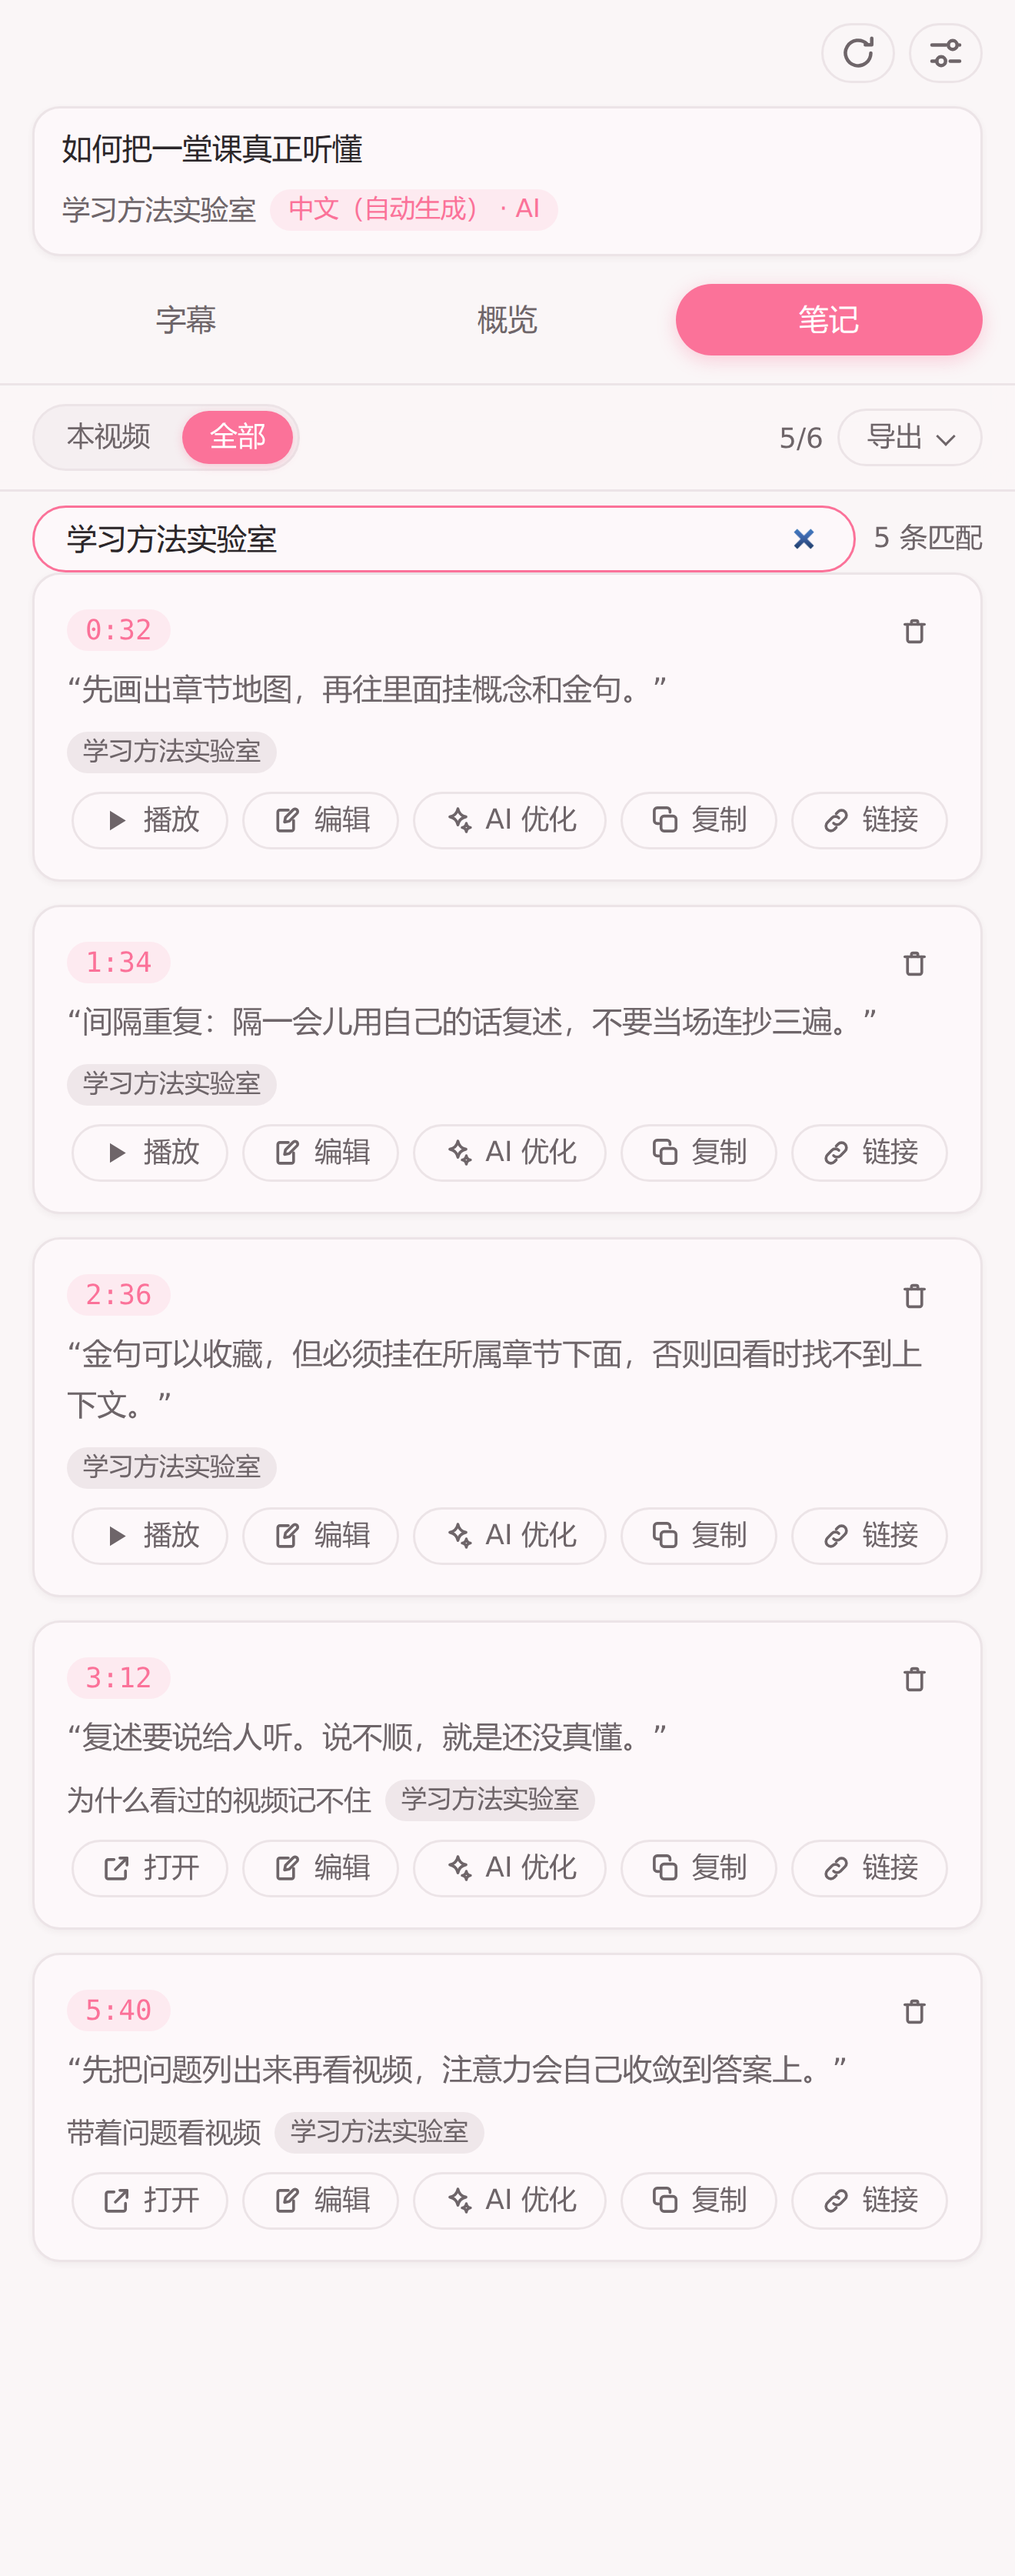
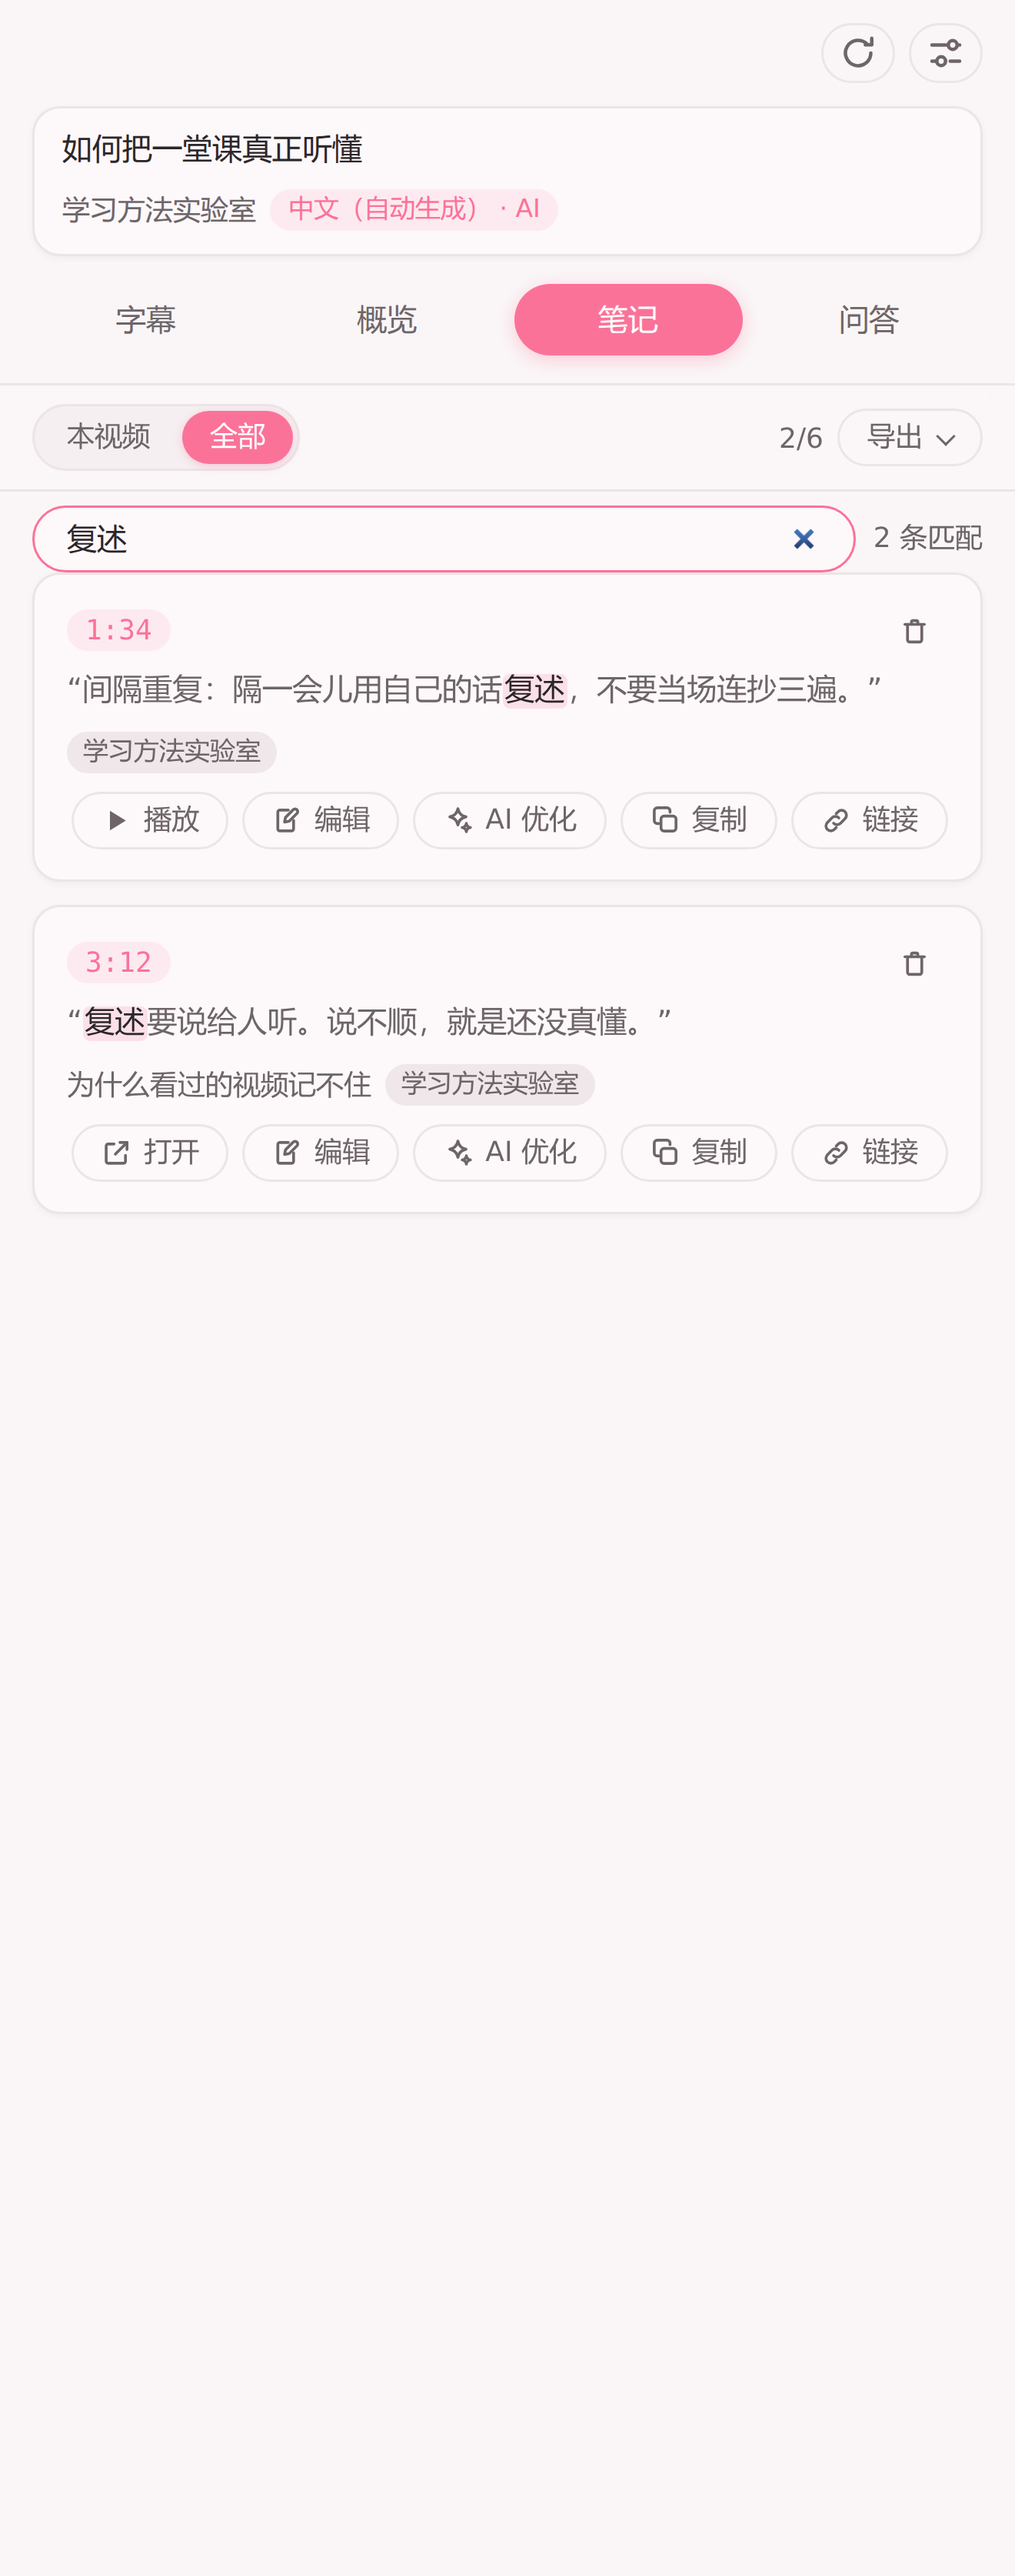
问答回答支持区间时间戳 [M:SS-M:SS]
真实模型会自然写出区间引用（表示该段话的依据范围），此前解析
只认单点导致全部变成死文本。切片逻辑下沉到 lib/qa-citations
（splitAnswerByTimestamps），区间显示原样、点击跳到起点；
提示词引导优先单点格式。渲染与解析共用同一套正则。

diff --git a/scripts/capture-sidepanel.js b/scripts/capture-sidepanel.js
@@ -213,6 +213,27 @@ const OTHER_NOTES = [
   },
 ];
 
+// 「问答」标签页的桩：askQuestion 直接返回成品卡片，不走真模型。
+const QA_ENTRY = {
+  id: "qa_shot",
+  bvid: BVID,
+  page: 1,
+  question: "这堂课的核心学习方法是什么？",
+  answer:
+    "核心是「先搭章节地图，再往里挂概念」[0:32]，配合间隔重复来对抗遗忘 [1:34]；检验标准是能把内容说给别人听 [3:12]。",
+  citations: [
+    { startSeconds: 32, quote: "先画出章节地图，再往里面挂概念和金句。" },
+    {
+      startSeconds: 94,
+      quote: "间隔重复：隔一会儿用自己的话复述，不要当场连抄三遍。",
+    },
+    { startSeconds: 192, quote: "复述要说给人听。说不顺，就是还没真懂。" },
+  ],
+  clickable: [32, 94, 192],
+  createdAt: Date.now(),
+};
+
+
 const FIXTURE = {
   bvid: BVID,
   url: `https://www.bilibili.com/video/${BVID}`,
@@ -232,11 +253,13 @@ const FIXTURE = {
     analysis: ANALYSIS,
   },
   notes: [...NOTES, ...OTHER_NOTES],
+  qaEntry: QA_ENTRY,
 };
 
 const SHOTS = [
   "transcript.png",
   "overview.png",
+  "qa.png",
   "explain.png",
   "notes.png",
   "notes-refine.png",
@@ -413,6 +436,11 @@ async function main() {
             return { success: true, notes };
           }
           if (message?.action === "checkVideoAvailable") return { available: true };
+          if (message?.action === "getQaHistory") return { success: true, entries: [] };
+          if (message?.action === "startAiTask") return { success: true };
+          if (message?.action === "askQuestion") {
+            return { success: true, entry: fixture.qaEntry };
+          }
           if (message?.action === "explainSelection") {
             return {
               success: true,
@@ -484,6 +512,16 @@ async function main() {
   await fitPanel(page);
   await shot(page, "overview.png");
 
+  // 问答：提问后的成品卡——时间戳可点、引用原句可见。
+  await page.click('.tab[data-tab="qa"]');
+  await page.waitForSelector("#qaPanel:not([hidden])");
+  await page.fill("#qaInput", "这堂课的核心学习方法是什么？");
+  await page.click("#qaAskBtn");
+  await page.waitForSelector("#qaList .qa-card");
+  await freezePlayback(page);
+  await fitPanel(page);
+  await shot(page, "qa.png");
+
   await page.click('.tab[data-tab="transcript"]');
   await page.waitForSelector("#transcriptList .segment");
   await freezePlayback(page);
@@ -514,7 +552,9 @@ async function main() {
   await page.waitForFunction(
     () => document.querySelectorAll("#notesList .note").length === 6,
   );
-  await page.fill("#notesSearchInput", "学习方法实验室");
+  // 搜「复述」而不是 UP 主：两条笔记正文出现粉色命中高亮，
+  // 正好展示本版的搜索高亮能力。
+  await page.fill("#notesSearchInput", "复述");
   await page.waitForFunction(
     () => document.getElementById("notesSearchCount").textContent.includes("条匹配"),
   );

diff --git a/lib/qa-citations.js b/lib/qa-citations.js
@@ -19,15 +19,42 @@ var BILI_QA_CITATIONS = (() => {
     return `${Math.floor(value / 60)}:${String(value % 60).padStart(2, "0")}`;
   }
 
-  /** 找出回答文本里的全部 [M:SS]，返回 [{raw, seconds}]，非法 token 跳过。 */
+  // 回答正文里的时间戳 token：单点 [M:SS] 或区间 [M:SS-M:SS]。
+  // 真实模型两种都会写（区间表示「这一段话的依据」），解析以起点为准。
+  const TIMESTAMP_TOKEN = /\[(\d{1,3}:[0-5]\d)(?:-(\d{1,3}:[0-5]\d))?\]/g;
+
+  /** 找出回答文本里的全部时间戳（区间取起点），非法 token 跳过。 */
   function extractTimestamps(text) {
     const source = String(text || "");
     const found = [];
-    for (const match of source.matchAll(/\[(\d{1,3}:[0-5]\d)\]/g)) {
+    for (const match of source.matchAll(TIMESTAMP_TOKEN)) {
       const seconds = timestampToSeconds(match[1]);
-      if (seconds !== null) found.push({ raw: match[1], seconds });
+      if (seconds !== null) {
+        found.push({ raw: match[0], seconds });
+      }
     }
     return found;
+  }
+
+  /**
+   * 把回答切成 普通文本 / 时间戳 片段数组，供渲染层拼装
+   * （时间戳片段带 seconds 与原文 label，普通片段只有 text）。
+   * 渲染层据此决定时间戳是可点按钮还是纯文本，逻辑单点维护。
+   */
+  function splitAnswerByTimestamps(answer) {
+    const source = String(answer || "");
+    const segments = [];
+    let cursor = 0;
+    for (const match of source.matchAll(TIMESTAMP_TOKEN)) {
+      const seconds = timestampToSeconds(match[1]);
+      const at = match.index;
+      if (seconds === null) continue;
+      if (at > cursor) segments.push({ text: source.slice(cursor, at) });
+      segments.push({ text: match[0], seconds });
+      cursor = at + match[0].length;
+    }
+    if (cursor < source.length) segments.push({ text: source.slice(cursor) });
+    return segments;
   }
 
   // 引用比对在「去空白」之后做：模型摘录时常在标点前后加空格，
@@ -90,6 +117,7 @@ var BILI_QA_CITATIONS = (() => {
     timestampToSeconds,
     secondsToTimestamp,
     extractTimestamps,
+    splitAnswerByTimestamps,
     validateCitations,
     clickableTimestamps,
   };

diff --git a/tests/sidepanel.test.js b/tests/sidepanel.test.js
@@ -210,7 +210,7 @@ function createContext({
   // 所以在末尾追加一行，从同一个词法作用域里把要测的绑定递出来。
   const source = fs.readFileSync(path.join(ROOT, "sidepanel.js"), "utf8");
   vm.runInContext(
-    `${source}\n;globalThis.__api = { state, loadTranscript, analyze, cancelAnalysis, cancelRewrite, segmentDisplayText, paintSegmentText, setTranscriptMode, selectionContext, onSelectionChange, applySearchFilter, updateFollowPill, jumpToActive, closeSearch, renderNoteCard, playNote, loadNotes, syncQuoteButtonsWithNotes, exportNotes, exportLearning, renderNotes, applyNotesSearch, renderAnalysis, sendToBackground, submitQuestion, switchTab };`,
+    `${source}\n;globalThis.__api = { state, loadTranscript, analyze, cancelAnalysis, cancelRewrite, segmentDisplayText, paintSegmentText, setTranscriptMode, selectionContext, onSelectionChange, applySearchFilter, updateFollowPill, jumpToActive, closeSearch, renderNoteCard, playNote, loadNotes, syncQuoteButtonsWithNotes, exportNotes, exportLearning, renderNotes, applyNotesSearch, renderAnalysis, sendToBackground, submitQuestion, switchTab, appendAnswerText };`,
     context,
   );
 
@@ -1712,3 +1712,18 @@ test("问答卡片只有复制操作，且有成功反馈", async () => {
   assert.match(ctx.el("toast").textContent, /已复制/);
 });
 
+
+test("回答正文支持区间时间戳：显示区间、跳到起点", () => {
+  const ctx = createContext({ transcript: transcriptResult() });
+  const node = createElement("div");
+  ctx.appendAnswerText(node, "依据见 [0:11-0:23] 与 [9:99] 越界", new Set([11]));
+
+  const buttons = node.children.filter((child) => child.tagName === "button");
+  assert.equal(buttons.length, 1, "越界的时间戳不渲染成按钮");
+  assert.equal(buttons[0].textContent, "[0:11-0:23]");
+  // 桩的 textContent 不聚合子节点，从 children 重建全文核对。
+  const rendered = node.children
+    .map((child) => (typeof child === "string" ? child : child.textContent))
+    .join("");
+  assert.equal(rendered, "依据见 [0:11-0:23] 与 [9:99] 越界");
+});

diff --git a/sidepanel.js b/sidepanel.js
@@ -1540,25 +1540,23 @@ function hideQaHint() {
   el("qaHint").hidden = true;
 }
 
-/** 回答正文里的 [M:SS] 渲染成可点击的时间戳按钮；越界的保留纯文本。 */
+/**
+ * 回答正文里的时间戳渲染成可点击按钮：单点与区间都支持
+ * （区间显示原样文本、跳到起点）；不在合法区间的保留纯文本。
+ * 切片逻辑在 lib/qa-citations.js，这里只负责拼节点。
+ */
 function appendAnswerText(node, answer, clickableSeconds) {
-  const source = String(answer || "");
-  node.textContent = "";
-  let cursor = 0;
-  const pattern = /\[(\d{1,3}:[0-5]\d)\]/g;
   const clickable = new Set(clickableSeconds || []);
-  for (const match of source.matchAll(pattern)) {
-    const seconds = BILI_QA_CITATIONS.timestampToSeconds(match[1]);
-    const at = match.index;
-    if (at > cursor) node.append(source.slice(cursor, at));
-    if (seconds !== null && clickable.has(seconds)) {
-      node.append(makeTimestampButton(match[1], seconds));
+  node.textContent = "";
+  for (const segment of BILI_QA_CITATIONS.splitAnswerByTimestamps(answer)) {
+    if (segment.seconds == null) {
+      node.append(segment.text);
+    } else if (clickable.has(segment.seconds)) {
+      node.append(makeTimestampButton(segment.text, segment.seconds));
     } else {
-      node.append(match[0]);
+      node.append(segment.text);
     }
-    cursor = at + match[0].length;
   }
-  if (cursor < source.length) node.append(source.slice(cursor));
 }
 
 function makeTimestampButton(label, seconds) {

diff --git a/tests/qa-citations.test.js b/tests/qa-citations.test.js
@@ -15,8 +15,8 @@ test("时间戳解析：M:SS 双向转换，非法输入拒绝", () => {
 test("extractTimestamps 抽出全部合法 token", () => {
   const found = C.extractTimestamps("开头 [0:32] 中间 [12:00] 结尾 [bad]");
   assert.deepEqual(found, [
-    { raw: "0:32", seconds: 32 },
-    { raw: "12:00", seconds: 720 },
+    { raw: "[0:32]", seconds: 32 },
+    { raw: "[12:00]", seconds: 720 },
   ]);
 });
 
@@ -86,4 +86,28 @@ test("clickableTimestamps 返回落在区间内的秒数集合", () => {
   );
   assert.ok(clickable.has(10));
   assert.ok(!clickable.has(150), "2:30 = 150s 超出 max 130");
+});
+
+test("extractTimestamps 支持区间格式，取起点", () => {
+  const found = C.extractTimestamps("依据见 [0:11-0:23] 与单点 [2:00]");
+  assert.deepEqual(found, [
+    { raw: "[0:11-0:23]", seconds: 11 },
+    { raw: "[2:00]", seconds: 120 },
+  ]);
+});
+
+test("splitAnswerByTimestamps：单点、区间、混合与无时间戳", () => {
+  assert.deepEqual(C.splitAnswerByTimestamps("结论 [0:11-0:23] 收尾"), [
+    { text: "结论 " },
+    { text: "[0:11-0:23]", seconds: 11 },
+    { text: " 收尾" },
+  ]);
+  assert.deepEqual(C.splitAnswerByTimestamps("没有时间戳"), [
+    { text: "没有时间戳" },
+  ]);
+  const mixed = C.splitAnswerByTimestamps("[1:00]和[1:30-2:00]");
+  assert.deepEqual(
+    mixed.filter((segment) => segment.seconds != null).map((s) => s.seconds),
+    [60, 90],
+  );
 });

diff --git a/prompts/qa.md b/prompts/qa.md
@@ -13,6 +13,7 @@
 1. 只基于提供的字幕内容作答。字幕之外的知识可以用来组织语言，
    但结论和细节必须能在字幕里找到出处。
 2. 关键结论必须紧跟时间戳引用，格式为 [分:秒]，指向支撑该结论的字幕位置。
+   时间戳一律写单个时间点（如 [3:04]），不要写 [起-止] 区间。
    没有出处的泛泛而谈不要写。
 3. 如果字幕里没有足够的信息回答问题，明确说「字幕中未找到相关内容」，并
    简单说明字幕里大致有什么。绝对不要编造、推测或用常识填补空白。
